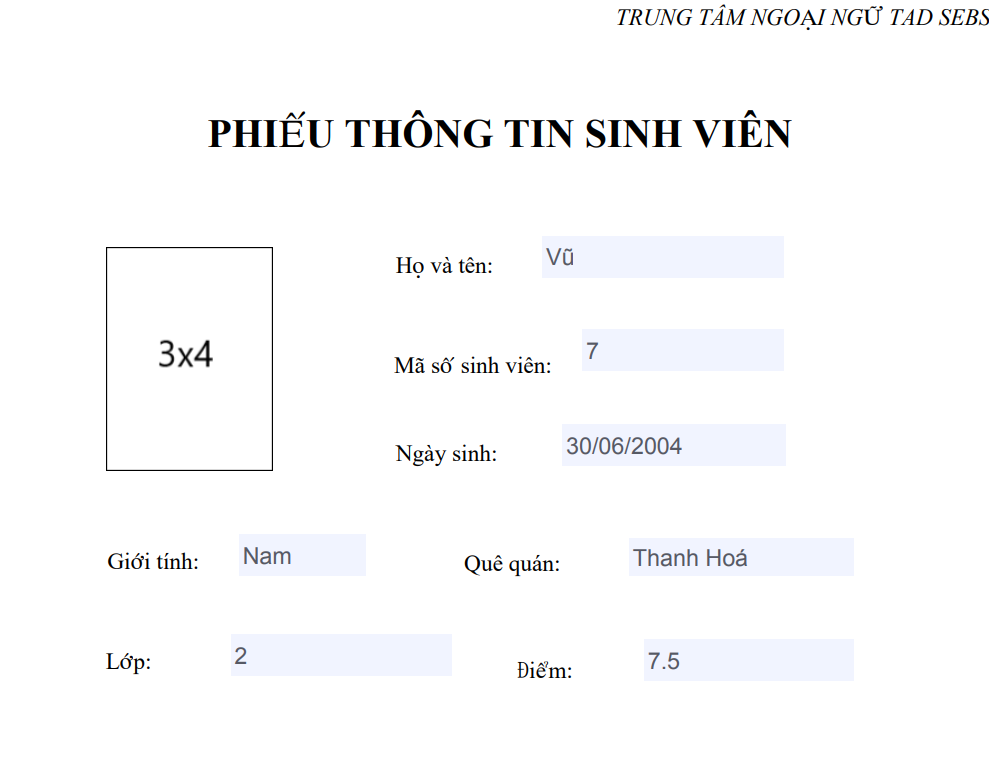
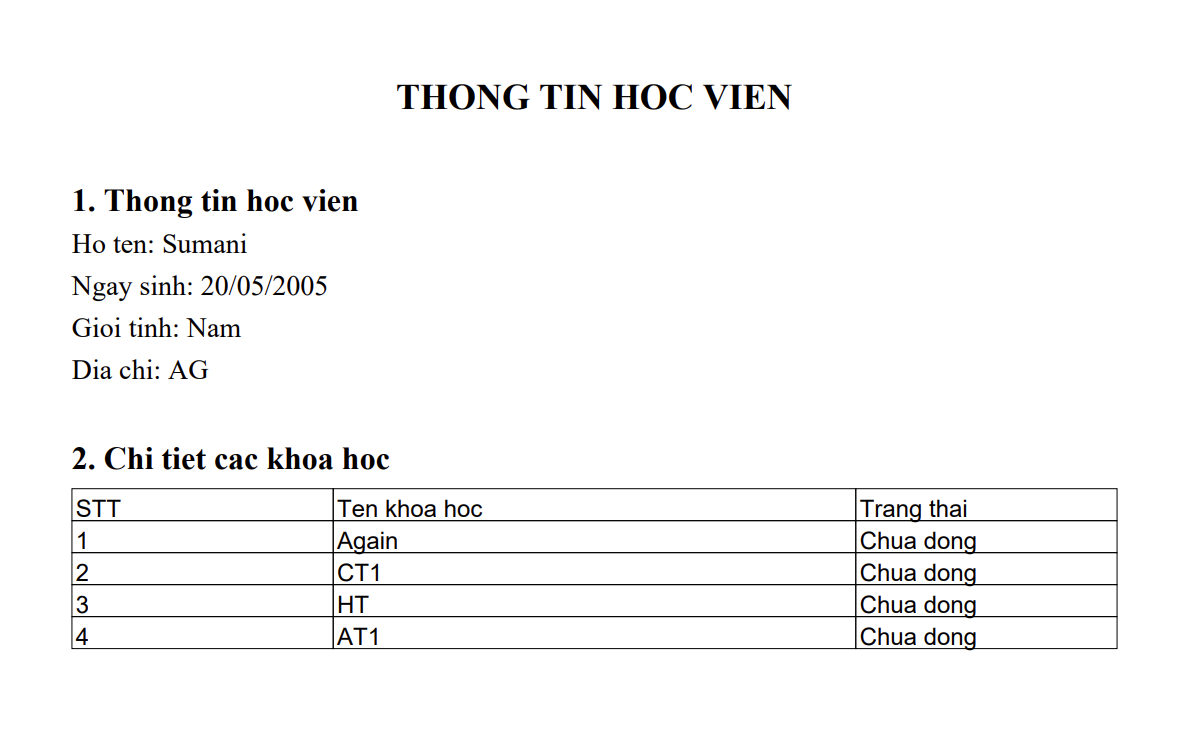
Fix minor bugs

diff --git a/flcenter/src/main/java/vn/tad_sebs/View/StudentView.java b/flcenter/src/main/java/vn/tad_sebs/View/StudentView.java
@@ -11,6 +11,7 @@ import java.awt.event.ActionListener;
 import java.awt.event.KeyEvent;
 import java.text.ParseException;
 import java.text.SimpleDateFormat;
+import java.time.LocalDate;
 import java.util.ArrayList;
 import java.util.Date;
 import java.util.HashMap;
@@ -19,6 +20,7 @@ import java.util.Map;
 
 import javax.swing.event.ListSelectionListener;
 import javax.swing.table.DefaultTableModel;
+import javax.swing.table.TableModel;
 
 import vn.tad_sebs.Model.CourseFeeEntry;
 import vn.tad_sebs.Model.CourseTeacherEntry;
@@ -34,10 +36,19 @@ import com.itextpdf.kernel.font.PdfFont;
 import com.itextpdf.kernel.font.PdfFontFactory;
 import com.itextpdf.kernel.pdf.PdfDocument;
 import com.itextpdf.kernel.pdf.PdfReader;
-import com.itextpdf.kernel.pdf.PdfWriter;
+import com.itextpdf.text.pdf.PdfWriter;
+import com.itextpdf.text.Chunk;
+import com.itextpdf.text.Document;
+import com.itextpdf.text.DocumentException;
+import com.itextpdf.text.Element;
+import com.itextpdf.text.Font;
+import com.itextpdf.text.FontFactory;
+import com.itextpdf.text.Paragraph;
+import com.itextpdf.text.pdf.PdfPTable;
 import com.itextpdf.forms.PdfAcroForm;
 import com.itextpdf.forms.fields.PdfFormField;
 
+import java.io.FileOutputStream;
 import java.io.IOException;
 
 /**
@@ -407,34 +418,71 @@ public class StudentView extends javax.swing.JFrame {
 
     private void btnPrintActionPerformed(java.awt.event.ActionEvent evt) {// GEN-FIRST:event_btnPrintActionPerformed
         Student student = getStudentInfo();
+        TableModel model = tbPackageList.getModel();
 
         try {
-            // Open the template PDF
-            PdfDocument pdfDoc = new PdfDocument(new PdfReader("template.pdf"),
-                    new PdfWriter("StudentInfo" + student.getId() + "-" + student.getName() + ".pdf"));
+            Document document = new Document();
+                // Tạo một PdfWriter
+                PdfWriter.getInstance(document, new FileOutputStream("StudentInfo-" + student.getId() + "-" + student.getName() + ".pdf"));
+                // Mở Document
+                document.open();
 
-            // Get the form from the document
-            PdfAcroForm form = PdfAcroForm.getAcroForm(pdfDoc, true);
+                // Tạo một font chung
+                Font font = FontFactory.getFont(FontFactory.TIMES, 14);
 
-            // Create a new font
-            PdfFont font = PdfFontFactory.createFont("vuArial.ttf", "Identity-H");
+                // Tạo tiêu đề với font lớn hơn và đậm
+                Paragraph title = new Paragraph("THONG TIN HOC VIEN", FontFactory.getFont(FontFactory.TIMES_BOLD, 18));
+                title.setAlignment(Element.ALIGN_CENTER);
+                document.add(title);
 
-            // Fill the form fields
-            Map<String, PdfFormField> fields = form.getAllFormFields();
-            fields.get("name").setValue(student.getName()).setFont(font);
-            fields.get("dob").setValue(student.getDate()).setFont(font);
-            fields.get("sex").setValue(student.getGioitinh()).setFont(font);
+                // Thêm thông tin học viên
+                document.add(new Chunk("\n"));
+                document.add(new Paragraph("1. Thong tin hoc vien", FontFactory.getFont(FontFactory.TIMES_BOLD, 16)));
+                document.add(new Paragraph("Ho ten: " + student.getName(), font));
+                document.add(new Paragraph("Ngay sinh: " + student.getDate(), font));
+                document.add(new Paragraph("Gioi tinh: " + student.getGioitinh(), font));
+                document.add(new Paragraph("Dia chi: " + student.getAddress(), font));
 
-            fields.get("address").setValue(student.getAddress()).setFont(font);
+                // Thêm chi tiết hóa đơn
+                document.add(new Chunk("\n"));
+                document.add(new Paragraph("2. Chi tiet cac khoa hoc", FontFactory.getFont(FontFactory.TIMES_BOLD, 16)));
 
-            fields.get("id").setValue(String.valueOf(student.getId())).setFont(font);
+                // Tạo bảng cho chi tiết hóa đơn
+                PdfPTable table = new PdfPTable(3); // 3 columns
+                table.setWidthPercentage(100); // Full Width
+                table.setSpacingBefore(10f); // Space before table
+                table.setSpacingAfter(10f); // Space after table
 
-            // Close the document
-            pdfDoc.close();
+                // Set Column widths
+                float[] columnWidths = { 1f, 2f, 1f };
+                table.setWidths(columnWidths);
+
+                table.addCell("STT");
+                table.addCell("Ten khoa hoc");
+                table.addCell("Trang thai");
+
+                for (int i = 0; i < model.getRowCount(); i++) {
+                    table.addCell(String.valueOf(i + 1));
+                    table.addCell(String.valueOf(model.getValueAt(i, 1)));
+                    table.addCell(String.valueOf(model.getValueAt(i, 2)) == "Chưa đóng" ? "Chua dong" : "Da dong");
+                }
+
+                document.add(table);
+
+                
+
+                // thêm hàng chữ ký cho người lập hoá đơn và người thanh toán, cùng 1 hàng
+
+                
+                // Đóng Document
+                document.close();
 
             showMessage("Đã xuất xong thông tin học viên. Kiểm tra trong thư mục của chương trình");
         } catch (IOException ex) {
             ex.printStackTrace();
+        } catch (DocumentException e) {
+            // TODO Auto-generated catch block
+            e.printStackTrace();
         }
     }// GEN-LAST:event_btnPrintActionPerformed
 

diff --git a/flcenter/src/main/java/vn/tad_sebs/View/LoginView.java b/flcenter/src/main/java/vn/tad_sebs/View/LoginView.java
@@ -116,7 +116,14 @@ public class LoginView extends javax.swing.JFrame {
         getContentPane().add(jLabel6, new org.netbeans.lib.awtextra.AbsoluteConstraints(0, 480, -1, -1));
 
         jLabel2.setBackground(new java.awt.Color(255, 255, 51));
-        jLabel2.setFont(new java.awt.Font("VNLATINW.TTF",1,18));
+        try {
+            FileInputStream is = new FileInputStream(new File("VNLatinW.ttf"));
+            Font font = Font.createFont(Font.TRUETYPE_FONT, is);
+            font = font.deriveFont(Font.PLAIN, 18); // Set font size here
+            jLabel2.setFont(font);
+        } catch (FontFormatException | IOException e) {
+            e.printStackTrace();
+        }
         jLabel2.setForeground(new java.awt.Color(47, 147, 177));
         jLabel2.setText("LOGIN");
         getContentPane().add(jLabel2, new org.netbeans.lib.awtextra.AbsoluteConstraints(30, 160, -1, -1));
